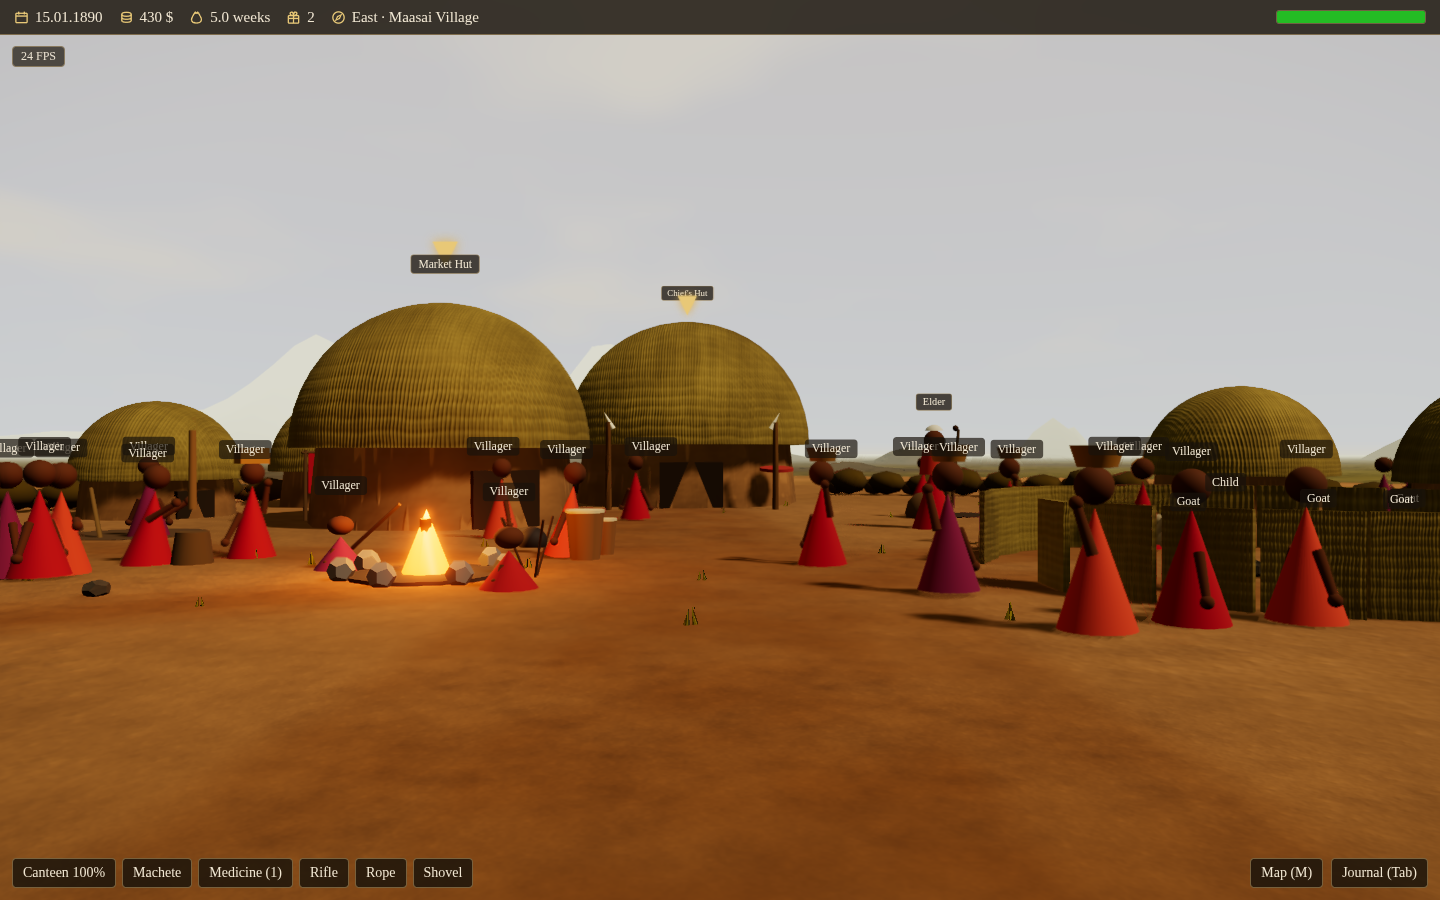
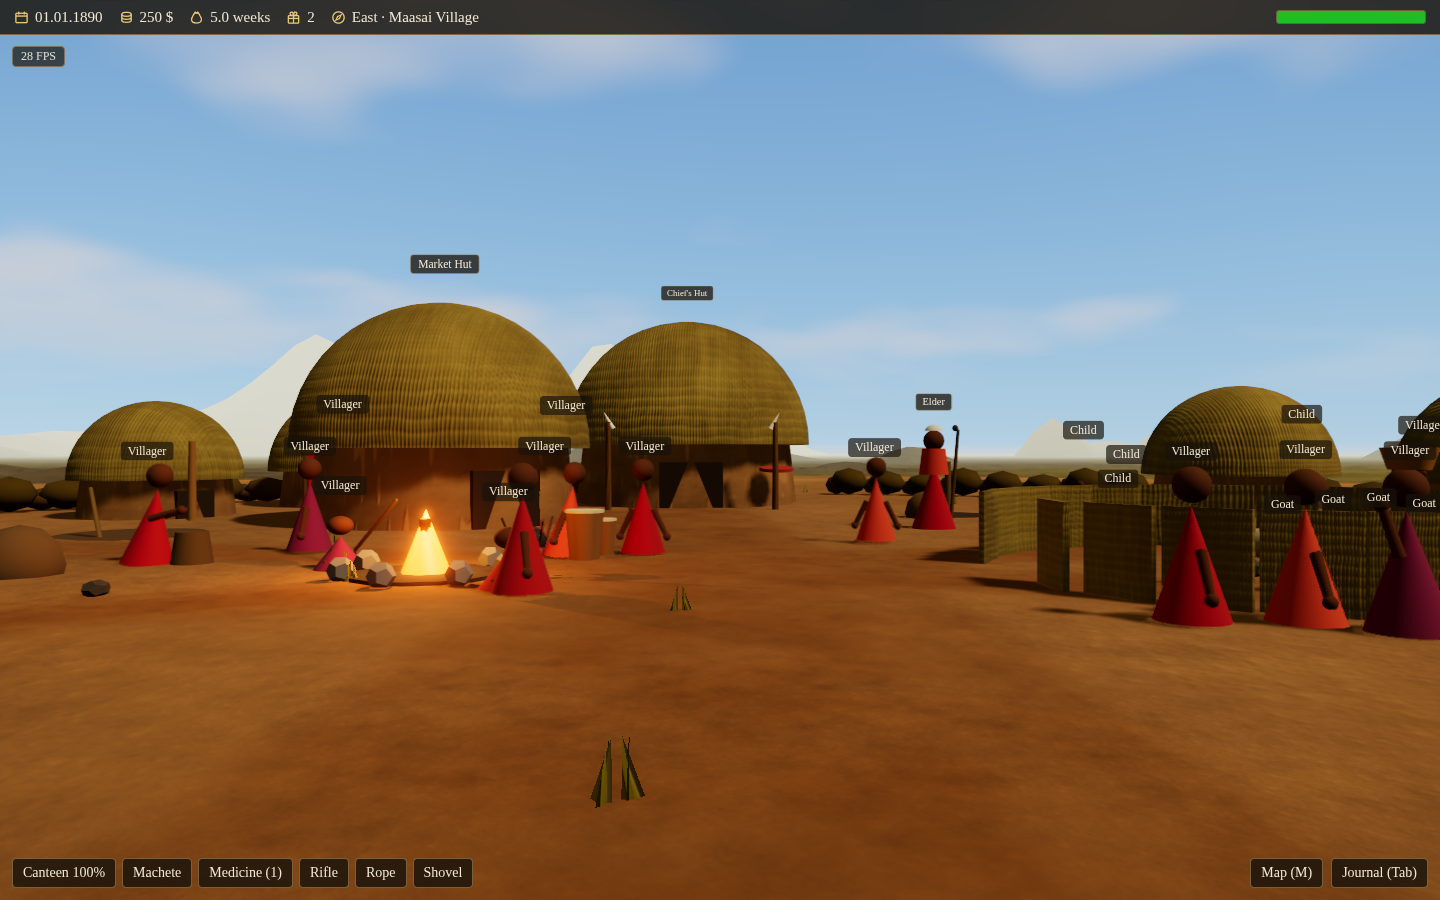
Measure the label rects in the village crowd, where the fusion defect lived
The no-fusion assertion measured rectangles only in the sparse savanna
half (enrichments.mjs), while the frame that showed the defect — the
village crowd of 148-ctrl-actor-labels-village.png — is written by
polish.mjs, whose checks all ask whether a TEXT is present. So main's
14.08 run overwrote the branch's clean evidence frame with a defective
one (its layer predates the declutter), the sync merge carried it into
the branch, and every suite stayed green over a picture reading
"Villager llager": the certificate came from a different scene and a
different revision than the picture.

Now both scenes measure the browser's own rects, sampled over 90 frames
rather than one instant — the declutter decides at the layer's 10 Hz
refresh while the subjects walk every frame, and the single moment a
converged poll returns is the one least able to catch a stale decision.
The bar is the pure, Vitest-pinned scripts/verify/labelFusion.mjs: no
pair ever deeper than 18 px in both axes, shallow inter-refresh grazes
in at most 5 % of frames, and a crowdless sample is a FAILURE, not a
quiet pass. Proven against the code that made the picture: with main's
layer files in the tree the new village check fails 90/90 sampled
frames (deepest 19 px, "Villager"×"Villager"); with the branch's
declutter it passes, and a 3600-frame soak found zero fused pairs.

The village staging also closes the journal the first entry auto-opens,
so the re-cut frame shows the crowd instead of the diary over a third
of it.

diff --git a/docs/acceptance-evidence.md b/docs/acceptance-evidence.md
@@ -397,8 +397,11 @@ in `src/systems/actorLabels.test.ts` and
 other: the further of two boxes that would overlap rises a line and, with
 no row left, yields entirely (`src/systems/actorLabels.test.ts`,
 `src/scenes/ActorLabels.test.tsx`), which is asserted live on the
-rectangles the browser really laid out — no pair of them overlaps
-(`scripts/verify/enrichments.mjs`).
+rectangles the browser really laid out, sampled over many frames rather
+than one instant, in BOTH scenes — the open savanna
+(`scripts/verify/enrichments.mjs`) and the crowded village at the very
+frame that once showed the defect (`scripts/verify/polish.mjs`; the bar:
+`scripts/verify/labelFusion.mjs`).
 
 ## 10. Goal scaffolding.
 
